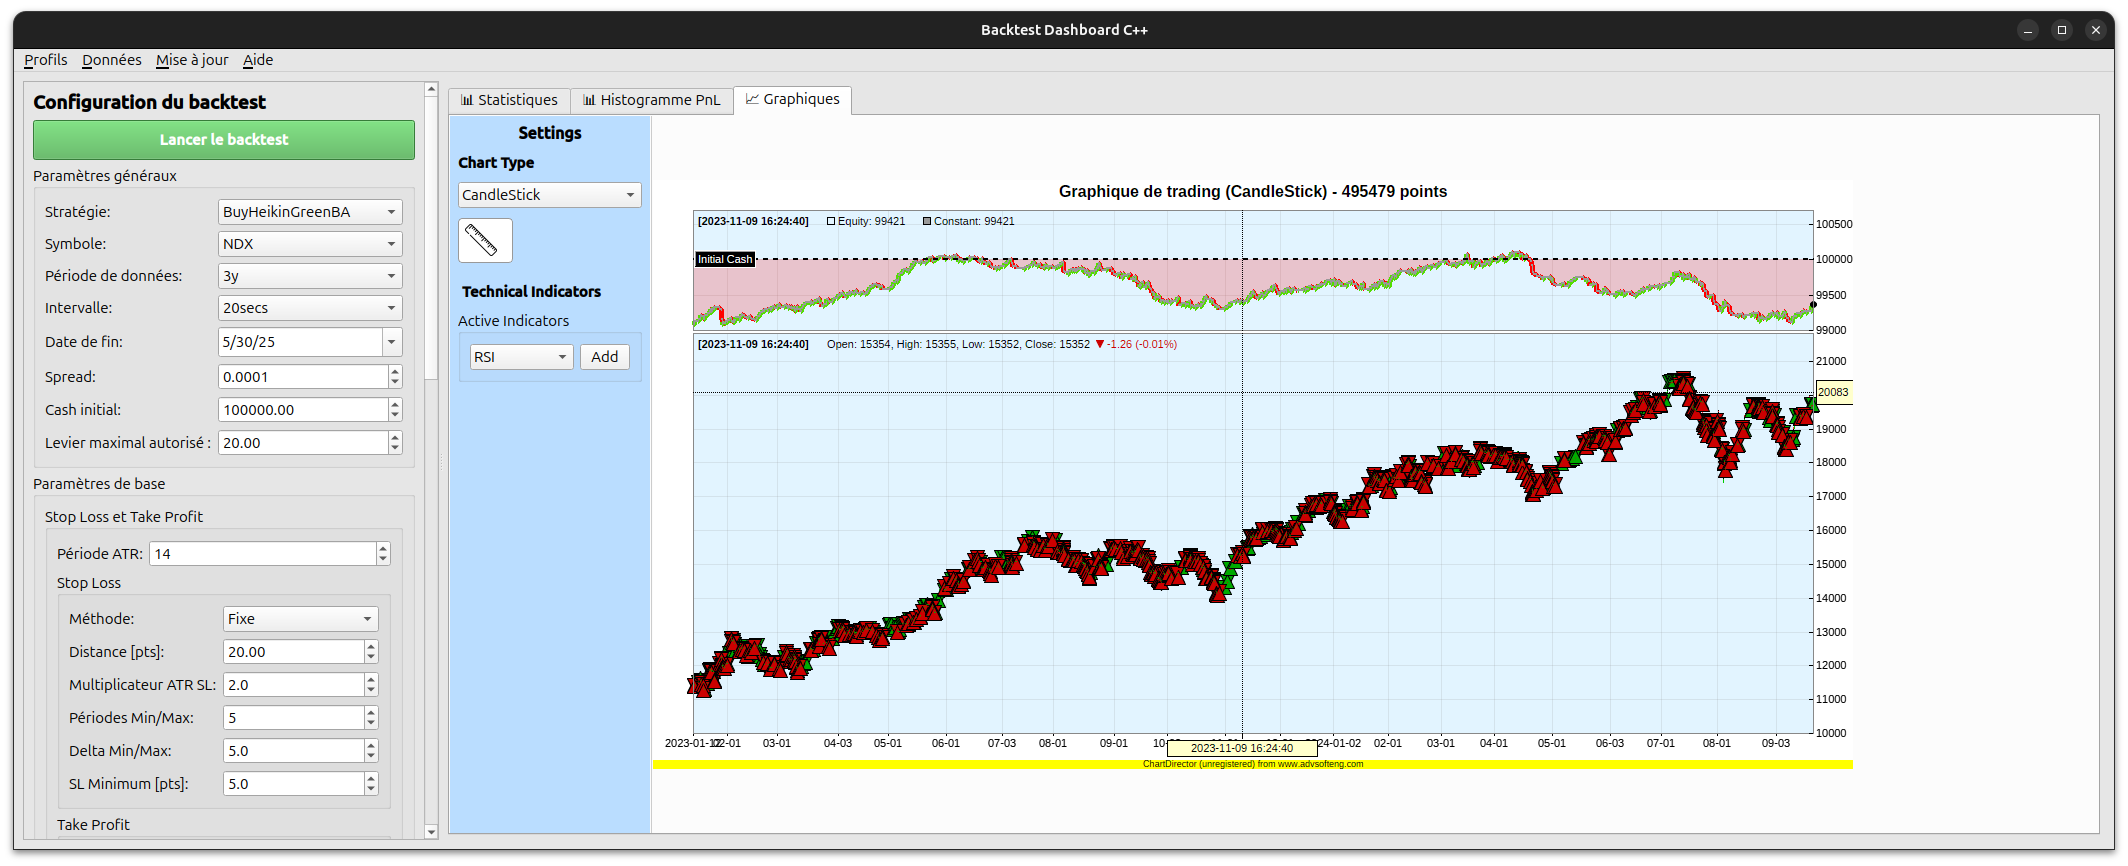
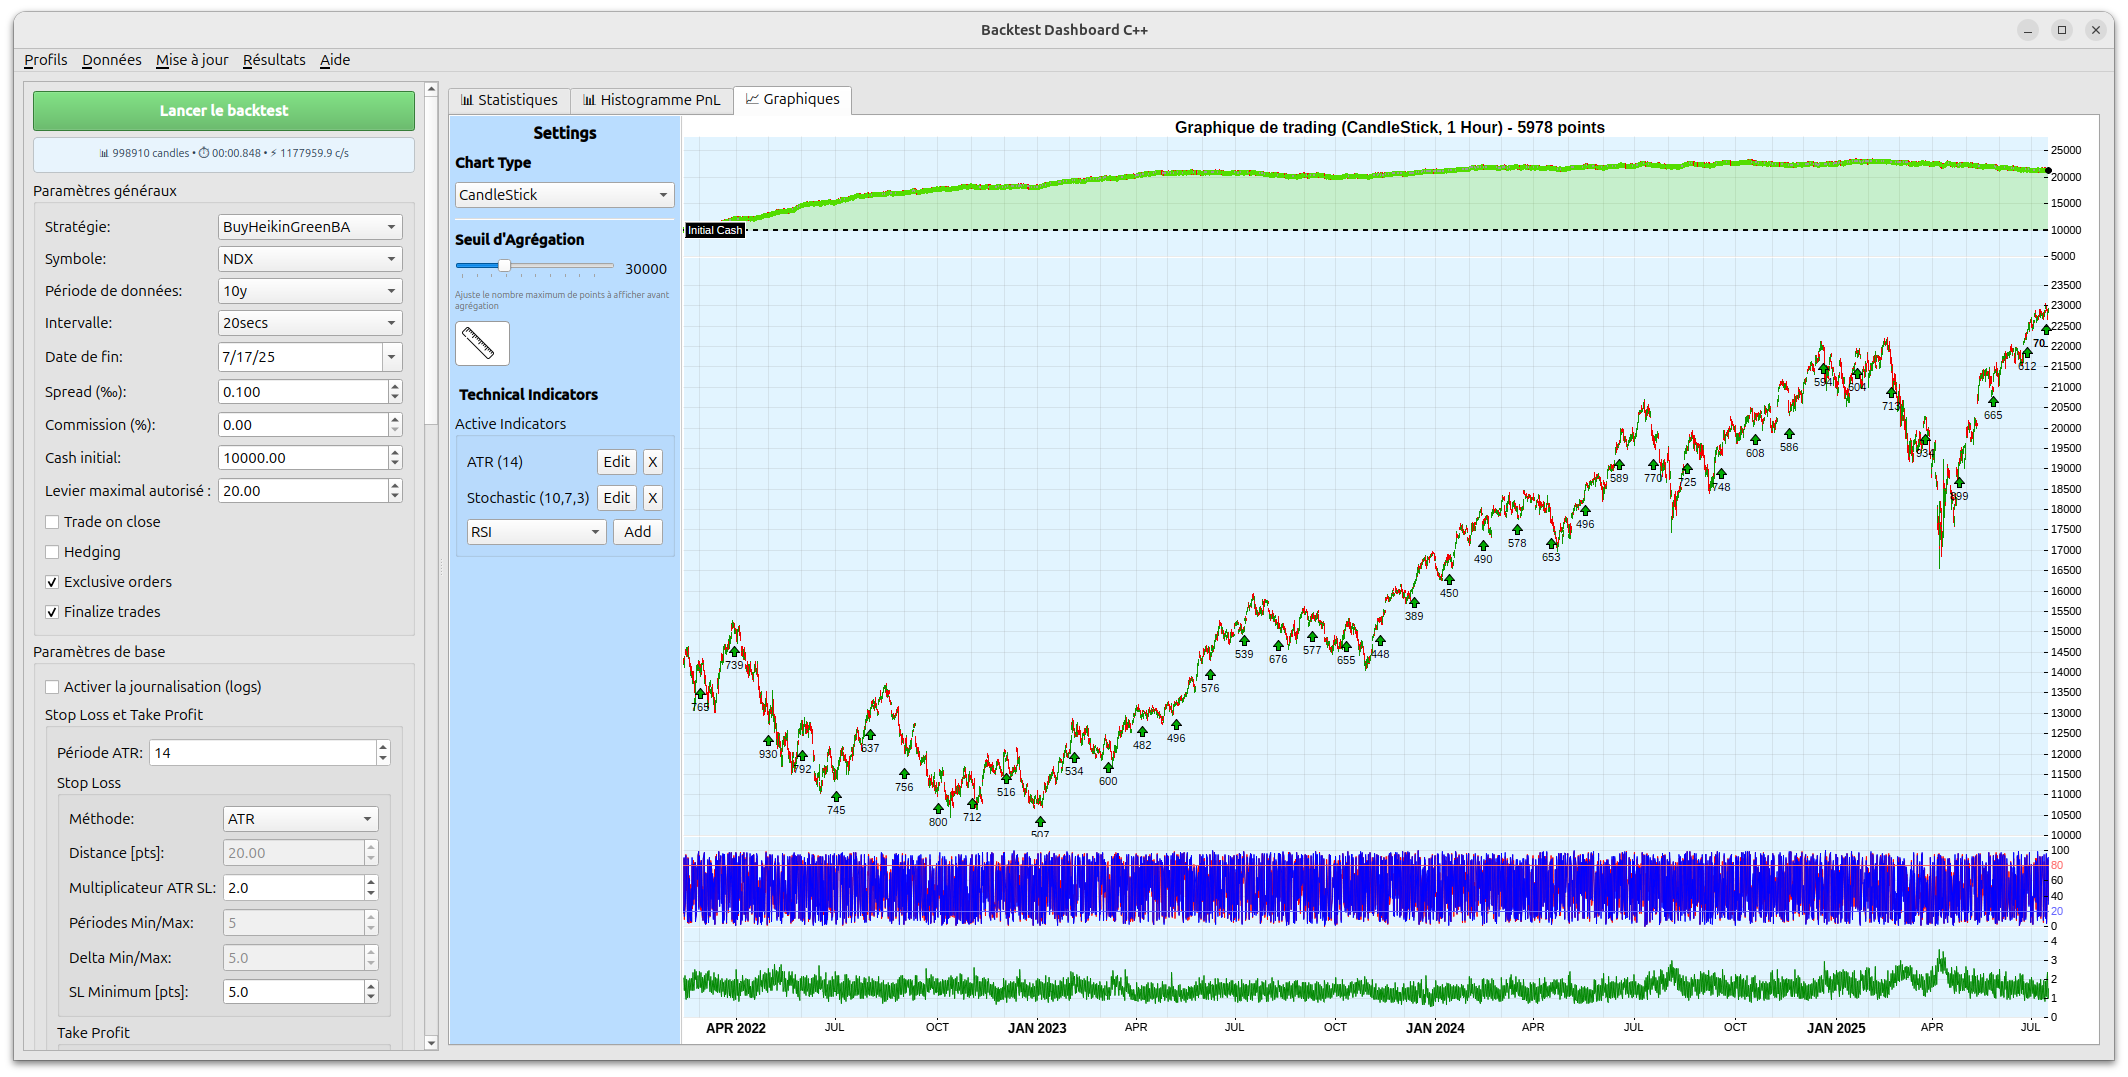
Update README

diff --git a/README.md b/README.md
@@ -55,11 +55,11 @@ This approach ensures both fast execution for backtests and flexibility for stra
 Clone the repository and go to the project root:
 
 ```bash
-git clone https://github.com/hugoMiCode/fast-backtest-app
+git clone https://github.com/FinTechCpp/fast-backtest-app
 cd fast-backtest-app
 # initialize submodules
-git submodule init
-git submodule update
+git submodule update --init --recursive
+git lfs pull
 ```
 
 ## Usage
@@ -91,6 +91,7 @@ sudo apt install -y build-essential git curl wget
 
 # Install required graphics libraries for Qt
 sudo apt install -y libgl1-mesa-dev libglu1-mesa-dev
+sudo apt install -y libxcb-cursor0 libxcb-cursor-dev
 ```
 
 ### Step 2: Install CMake 4.0.3
@@ -130,9 +131,11 @@ chmod +x qt-unified-linux-x64-4.6.1-online.run
 
 **Qt installer instructions:**
 1. Create a Qt account (free for personal use)
-2. Select **Qt 6.8.3**
-3. Check **Desktop gcc 64-bit**
-4. Install in the default directory: `~/Qt/`
+2. Select **Custom installation**
+3. Select **Qt 6.8.3**
+4. Check the fields such as the screenshot following:
+5. ![Qt Installer Selection](images/qt_installer_config.png)
+6. Install in the default directory: `~/Qt/`
 
 ### Step 5: Permanent PATH configuration
 
